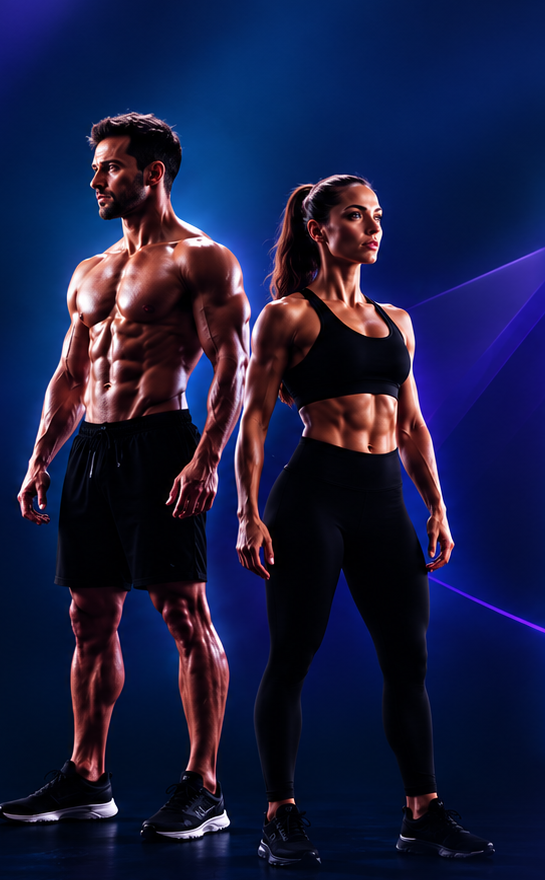
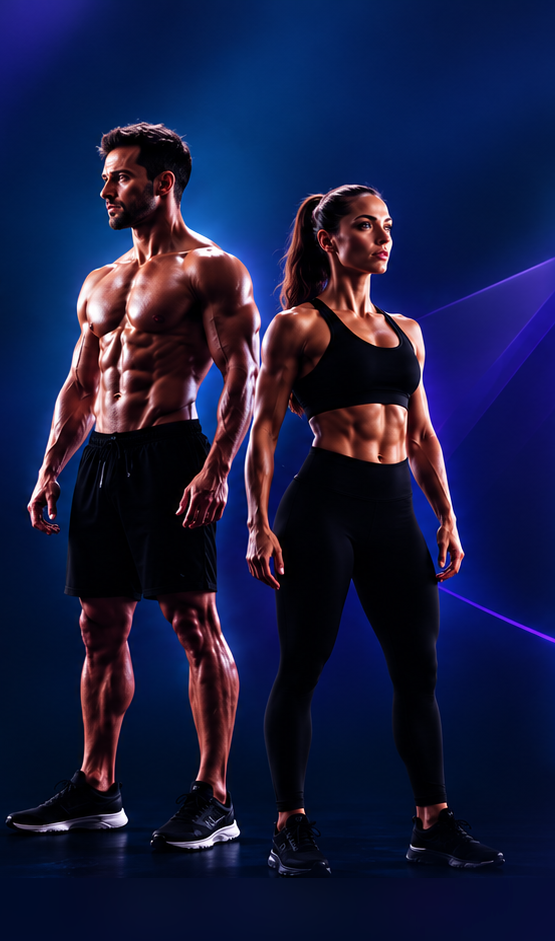
Match the login athletes to the loginnovo mockup framing.

Changed region(s): [[0.0, 0.1227, 1.0, 1.0], [0.8422, 0.3375, 1.0, 0.4602], [0.7798, 0.2455, 1.0, 0.3375]]

diff --git a/src/styles/auth.css b/src/styles/auth.css
@@ -2004,6 +2004,24 @@ html:has(.auth-split) body {
   .auth-split__steps {
     z-index: 3;
   }
+
+  .login-hero-frame {
+    left: 50%;
+    top: 0;
+    height: 100%;
+    transform: translateX(-50%);
+  }
+
+  .login-hero-art {
+    -webkit-mask-image:
+      linear-gradient(to right, transparent 0%, rgba(0, 0, 0, 0.55) 10%, #000 24%, #000 76%, rgba(0, 0, 0, 0.55) 90%, transparent 100%),
+      linear-gradient(to bottom, transparent 0%, #000 12%, #000 100%);
+    -webkit-mask-composite: source-in;
+    mask-image:
+      linear-gradient(to right, transparent 0%, rgba(0, 0, 0, 0.55) 10%, #000 24%, #000 76%, rgba(0, 0, 0, 0.55) 90%, transparent 100%),
+      linear-gradient(to bottom, transparent 0%, #000 12%, #000 100%);
+    mask-composite: intersect;
+  }
 }
 
 @media (min-width: 768px) and (max-width: 1366px) {

diff --git a/src/components/auth/LoginHero.jsx b/src/components/auth/LoginHero.jsx
@@ -106,7 +106,7 @@ export default function LoginHero() {
         <div className="login-hero-frame">
           <img
             className="login-hero-art"
-            src="/branding/evoluafit-login-athletes.png?v=loginnovo"
+            src="/branding/evoluafit-login-athletes.png?v=loginnovo-3"
             alt=""
             decoding="async"
             fetchPriority="high"
